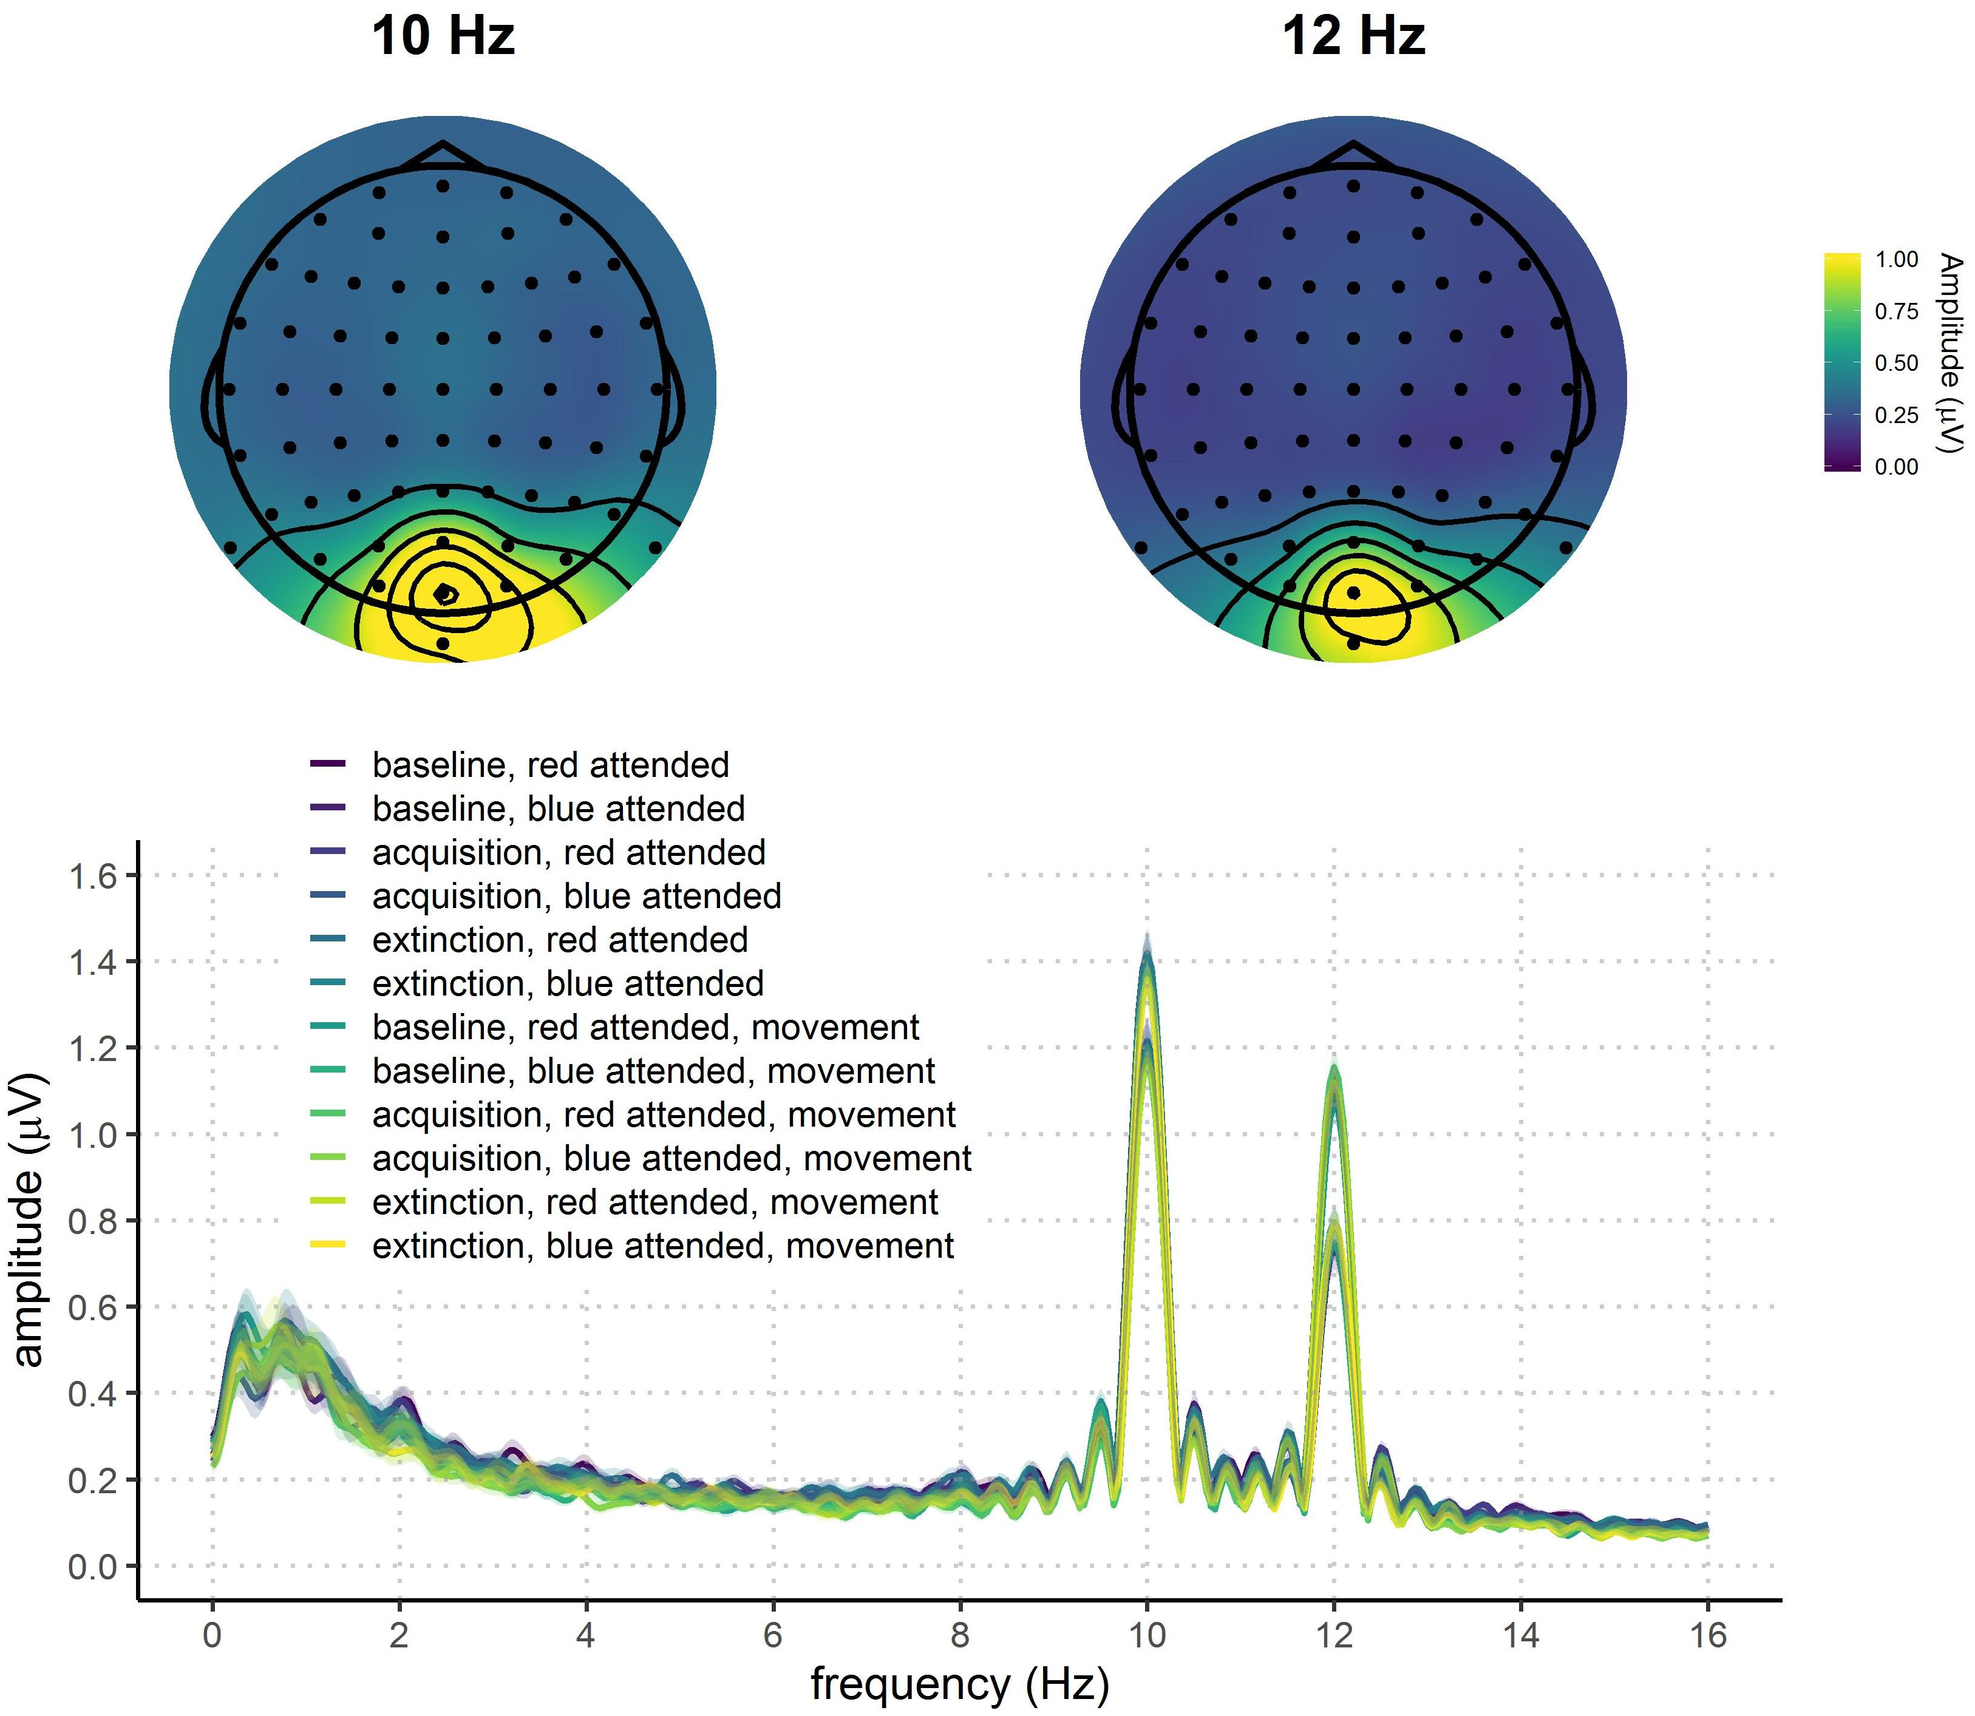
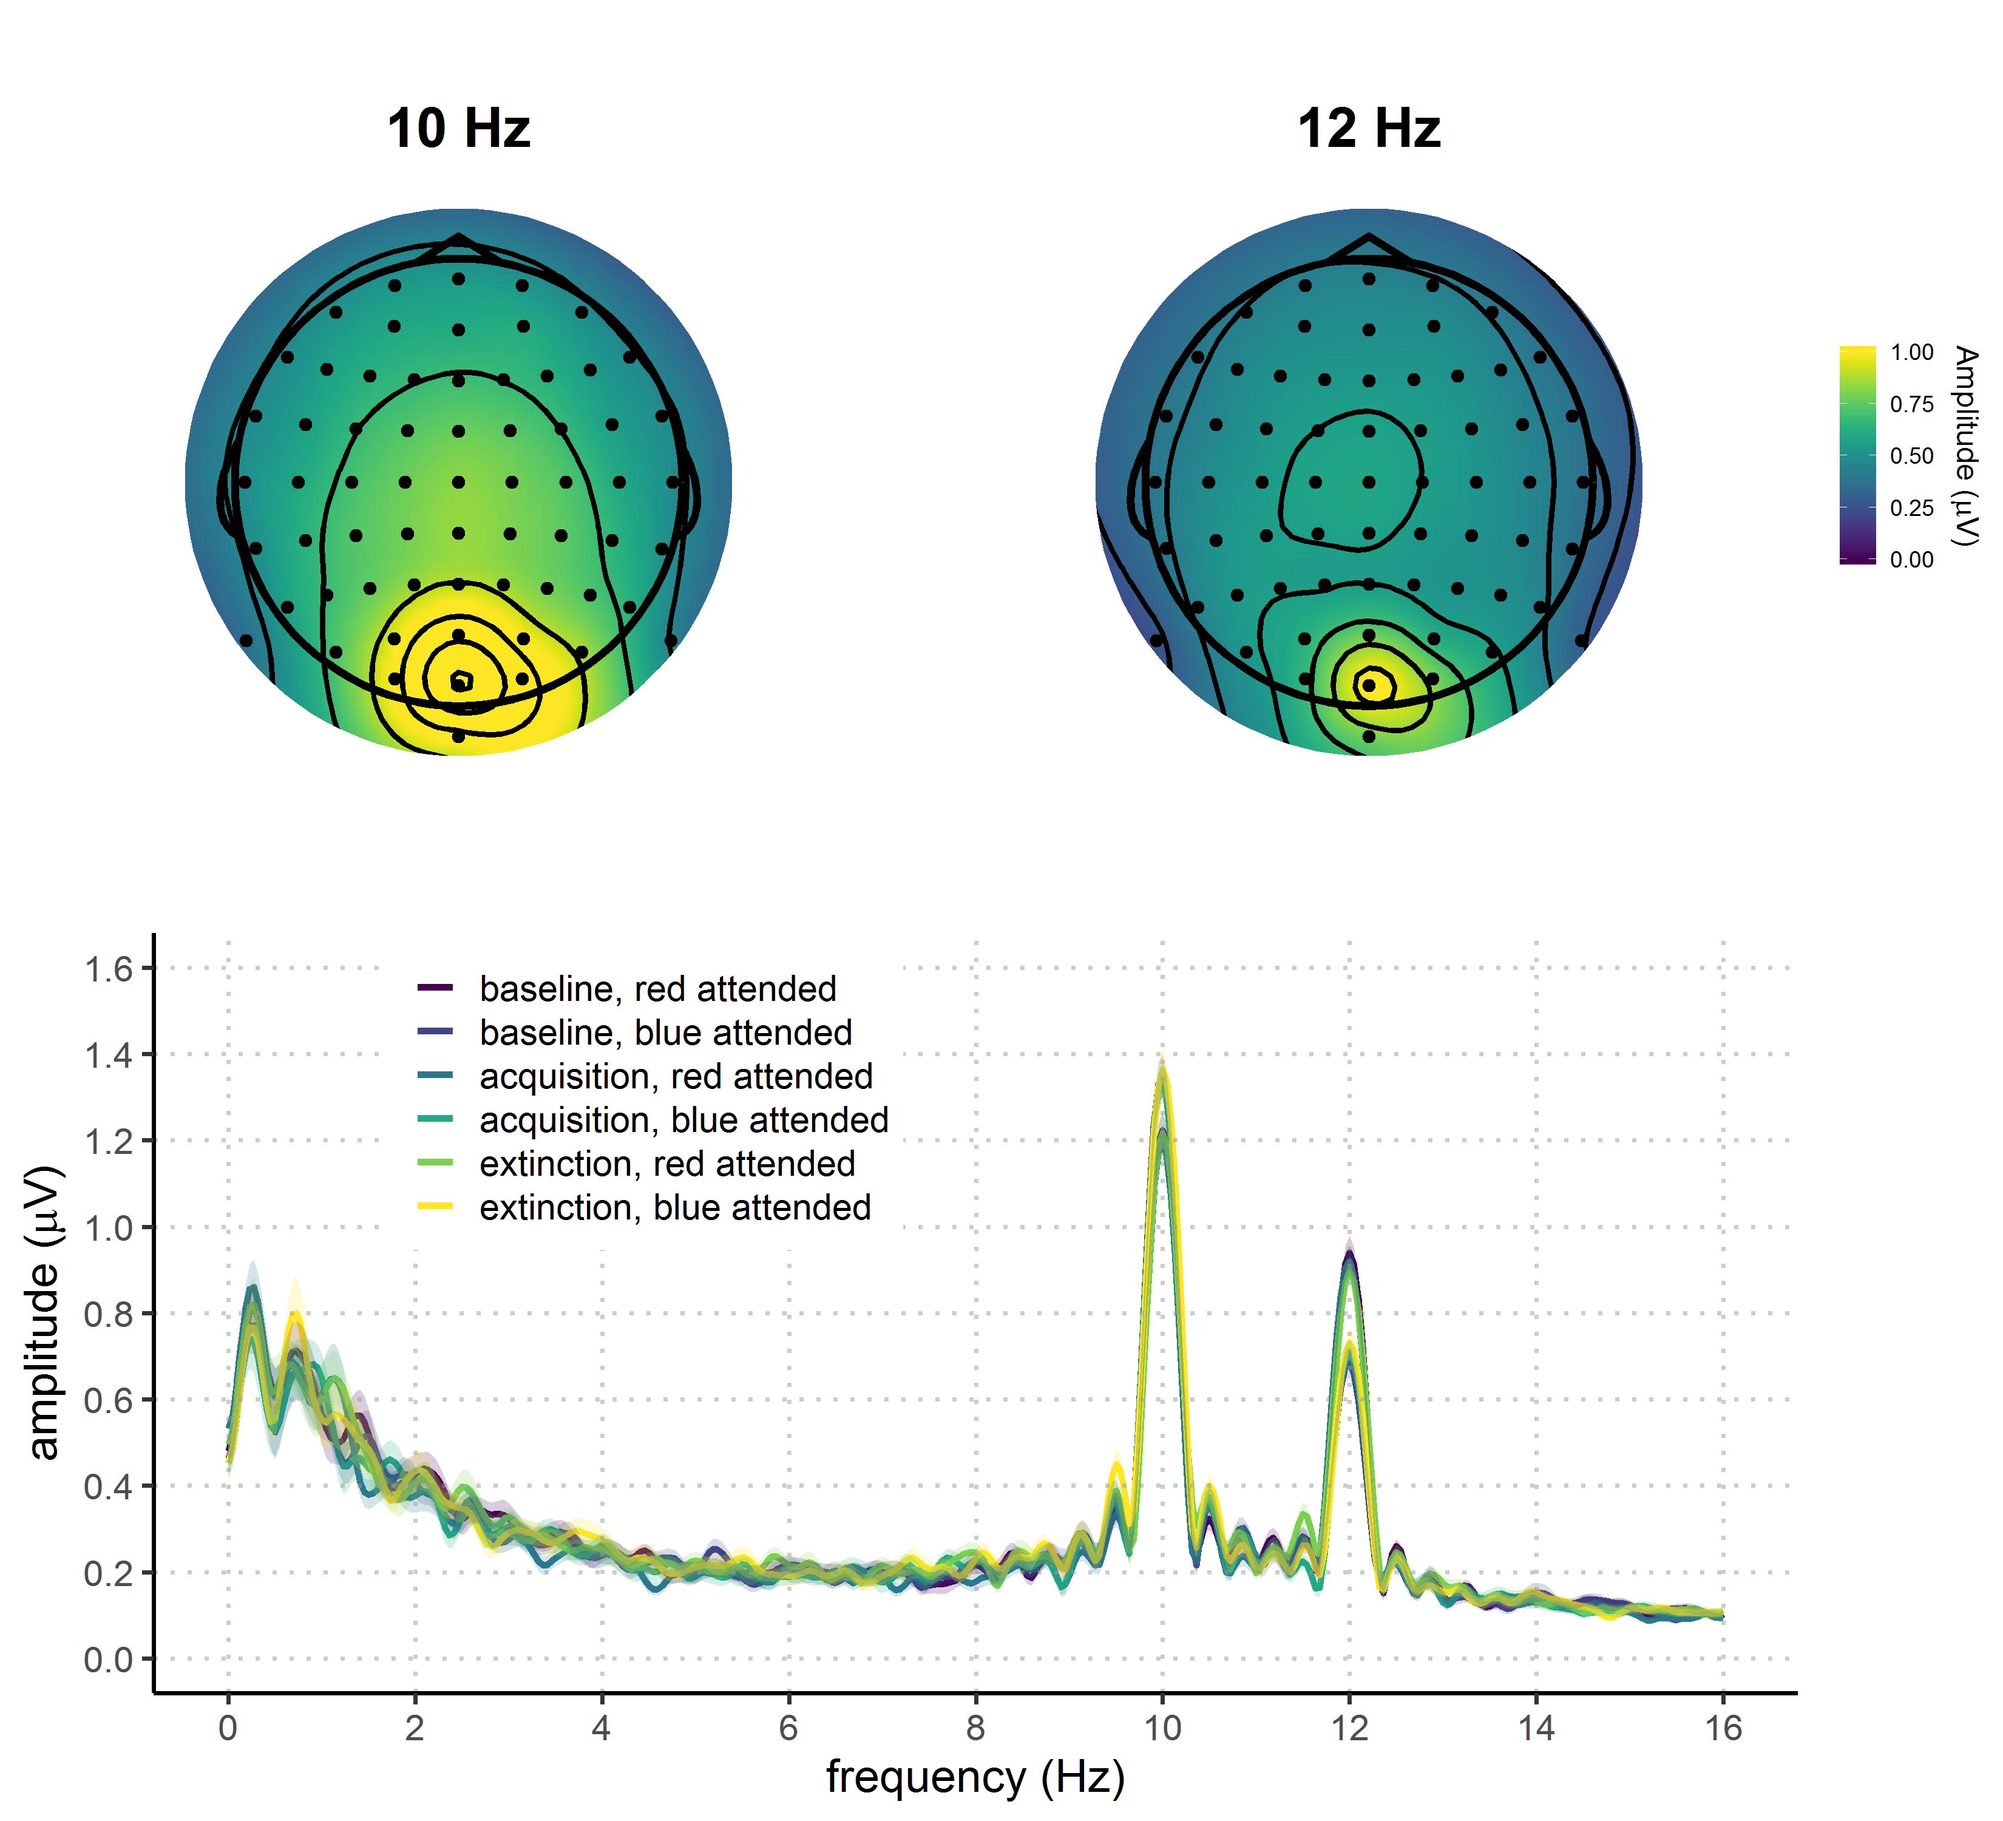
mastoid reference, no movement trials

diff --git a/EEG_preprocessing/FSAReward_analysis_ssVEP.m b/EEG_preprocessing/FSAReward_analysis_ssVEP.m
@@ -1,0 +1,90 @@
+
+%% FSAReward, analysis ssVEP
+
+% add path to EEGLAB + plugins & various functions
+addpath(genpath('E:\Experiments\Grahek_Ivan\FSAReward\scripts\EEG\toolboxes_functions\'));
+
+close all; clear all; clc;
+
+% experiment settings
+rng(7); % seed for pseudo-random number generator ('A scuppetta!)
+expname='FSAReward'; % experiment name
+pathexp=['E:\Experiments\Grahek_Ivan\' expname]; % main directory
+pathanalysis='analysis\EEG'; % where to store the analysis
+pathpreproc='preproc'; % where to store the preprocessed single-subject data (for grand average)
+pathGA='mean'; % where to store the grand-averages
+Avg.channs64=[pathexp '\scripts\EEG\Antonio_BioSemi64.locs']; % channel locations without external channels
+Avg.prefix='VP'; % prefix of data files
+begin_epoch=.5; % begin epoch (in seconds)
+end_epoch=3.25; % end epoch (in seconds)
+
+% Participants:
+%  * technical problems (no EEG recording from the beginning of the experiment, problems with battery):
+%     - VP05, VP10, VP13, VP27
+%  * percentage of rejected epochs (ssVEP preprocessing pipeline) in one or more conditions exceeds 35%:
+%     - VP02 [27.5,25,15,17.5,27.5,40]
+%     - VP35 [20,15,27.5,32.5,42.5,35]
+%     - VP39 [10,7.5,12.5,10,45,40]
+%     - VP44 [2.5,7.5,30,37.5,15,22.5]
+
+% final sample (N=40):
+Avg.subjects=[1 3 4 6 7 8 9 11 12 14 15 16 17 18 19 20 21 22 23 24 25 26 28 29 30 31 32 33 34 36 37 38 40 41 42 43 45 46 47 48];
+Avg.pathin=[pathexp '\' pathanalysis '\' pathpreproc '\']; % where to retrieve the preprocessed individual subject data (for grand average)
+Avg.pathout=[pathexp '\' pathanalysis '\' pathGA '\']; % where to save the grand average
+
+% TRIGGERS (only conditions in which no dot movement occurred):
+% 1: baseline, red attended; 2: baseline, blue attended;
+% 3: acquisition, red attended; 4: acquisition, blue attended;
+% 5: extinction, red attended; 6: extinction, blue attended.
+Avg.trig=[1 2 3 4 5 6]; % select triggers
+
+%% grand averages: create & save separate grand averages for each condition
+
+[Trials]=MeanData_FSAReward(Avg);
+
+%% calculate and plot topography and frequency amplitude spectrum
+
+% set variable for topography
+topo=struct('numchans',64,... % number of scalp electrodes
+    'freq',[10 12],... % frequencies of interest
+    'samprate',512,... % sampling rate
+    'time',[begin_epoch end_epoch],... % epoch length (in seconds)
+    'timeplot',1,... % random time point (within the epoch length) used as reference to extract topography (in seconds)
+    'maptype','hot',... % color map (see help topoplot)
+    'elec_coords',Avg.channs64,... % electrode coordinates
+    'labels','numbers',... % labels to use in plot (numbers or labels)
+    'subjects',Avg.subjects,... % number of datasets
+    'pathin',Avg.pathout,... % where to take the data
+    'amp_topomaplim',[0 1],... % min/max amplitude value in topography (common across frequencies)
+    'amp_spectramaplim',[0 1.6]); % min/max amplitude value in spectrum (common across frequencies)
+
+% all reward and attention conditions
+topo.subjnum=Avg.subjects; % all participants
+topo.condnum=Avg.trig; % all conditions
+topo.subjects=1:numel(Avg.subjects); % index of all participants
+topo.conds=1:numel(Avg.trig); % index of all conditions
+eventlabels={'BslnRedAttended' 'BslnBlueAttended' 'AcqRedAttended' 'AcqBlueAttended' 'ExtRedAttended' 'ExtBlueAttended'}; % condition labels
+csvname='rewardBoth'; % name of csv file containing amplitude values at specified frequencies
+
+% plot topography
+[elec_rank]=plot_topo_FSAReward(topo);
+
+% select electrodes for spectral analysis
+elec_choice=1;
+switch elec_choice % select method for electrode selection
+    case 1 % select electrodes with max amplitude for each participant
+        elec=findmaxelec(elec_rank(:,:,1),4,0); % select 4 electrodes with highest amplitude
+        elec=repmat(elec,numel(topo.subjects),1); % select electrodes
+    case 2 % manually select electrodes
+        elec=repmat([28],numel(topo.subjects),1);
+end
+
+% fields to add to the topo structure (for graph of amplitude spectra)
+topo.channels=elec; % selected electrodes
+topo.bound=[0 16]; % range of frequencies to plot
+
+% plot frequency amplitude spectrum & extract amplitude values
+[amplitudes]=spec_plot_FSAReward(topo,eventlabels);
+cell2csv([pathexp '\' pathanalysis '\amplitudes_' csvname '.csv'],amplitudes); % save amplitude values in a .csv file
+
+%%
